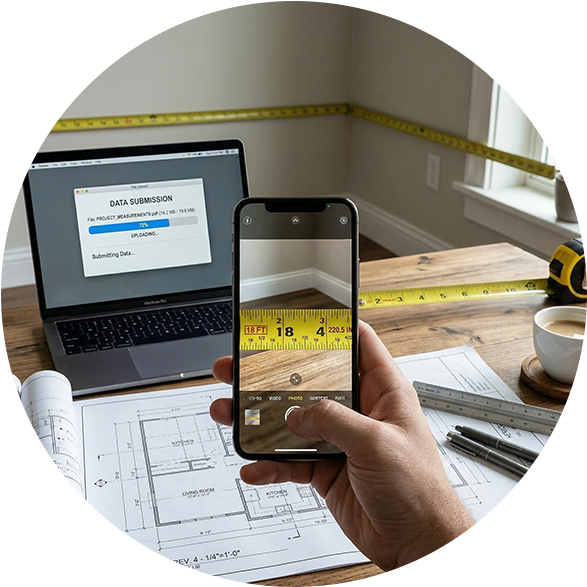
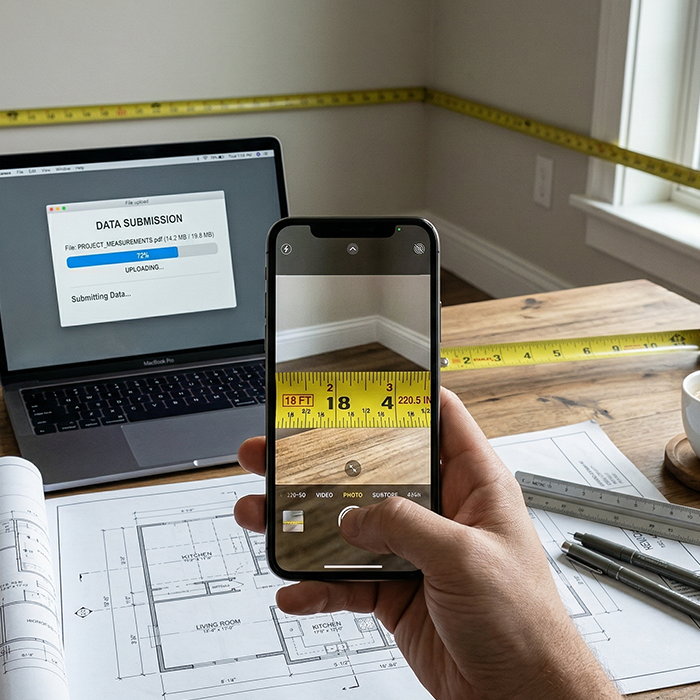
c

diff --git a/src/pages/faq/index.jsx b/src/pages/faq/index.jsx
@@ -4,6 +4,34 @@ import LightLayout from "../../layouts/light";
 import IntroWithVerticalTwo from "../../components/Intro-with-vertical-2";
 
 const FAQPage = () => {
+  const items = [
+    {
+      q: "How do I get a quote?",
+      a:
+        "Send photos, measurements, drawings, or schedule a video consultation. Our team reviews the information and prepares a quote.",
+    },
+    {
+      q: "How long does it take to receive a quote?",
+      a:
+        "Most projects receive a free 3D design and material quote within approximately 48 business hours.",
+    },
+    {
+      q: "Do you install the materials?",
+      a:
+        "Installation may be performed by local installers or contractors while we coordinate design, materials, and specifications.",
+    },
+    {
+      q: "Do you work nationwide?",
+      a:
+        "Yes. Clients across the United States can submit projects online and receive designs and quotes.",
+    },
+    {
+      q: "What projects do you support?",
+      a:
+        "Kitchen remodeling, bathroom remodeling, countertops, flooring, commercial millwork, restaurant interiors, office interiors, and finish carpentry.",
+    },
+  ];
+  const [active, setActive] = React.useState(0);
   React.useEffect(() => {
     document.querySelector("body").classList.add("homepage");
   }, []);
@@ -28,25 +56,27 @@ const FAQPage = () => {
         <div className="container">
           <div className="row">
             <div className="col-lg-10 offset-lg-1">
-              <div className="mb-40">
-                <h5 className="mb-20">How do I get a quote?</h5>
-                <p>Send photos, measurements, drawings, or schedule a video consultation. Our team reviews the information and prepares a quote.</p>
-              </div>
-              <div className="mb-40">
-                <h5 className="mb-20">How long does it take to receive a quote?</h5>
-                <p>Most projects receive a free 3D design and material quote within approximately 48 business hours.</p>
-              </div>
-              <div className="mb-40">
-                <h5 className="mb-20">Do you install the materials?</h5>
-                <p>Installation may be performed by local installers or contractors while we coordinate design, materials, and specifications.</p>
-              </div>
-              <div className="mb-40">
-                <h5 className="mb-20">Do you work nationwide?</h5>
-                <p>Yes. Clients across the United States can submit projects online and receive designs and quotes.</p>
-              </div>
-              <div className="mb-0">
-                <h5 className="mb-20">What projects do you support?</h5>
-                <p>Kitchen remodeling, bathroom remodeling, countertops, flooring, commercial millwork, restaurant interiors, office interiors, and finish carpentry.</p>
+              <div className="faq-accordion">
+                {items.map((it, idx) => (
+                  <div
+                    key={idx}
+                    className={`faq-item ${active === idx ? "open" : ""}`}
+                  >
+                    <button
+                      className="faq-q"
+                      aria-expanded={active === idx}
+                      onClick={() =>
+                        setActive(active === idx ? -1 : idx)
+                      }
+                    >
+                      <span>{it.q}</span>
+                      <i className={`fas ${active === idx ? "fa-minus" : "fa-plus"}`} />
+                    </button>
+                    <div className="faq-a">
+                      <p>{it.a}</p>
+                    </div>
+                  </div>
+                ))}
               </div>
             </div>
           </div>
@@ -57,4 +87,3 @@ const FAQPage = () => {
 };
 
 export default FAQPage;
-

diff --git a/src/styles/globals.css b/src/styles/globals.css
@@ -443,6 +443,44 @@ body.hideX .pace {
   padding-left: 18px;
 }
 
+/* FAQ accordion */
+.faq-accordion .faq-item {
+  border: 1px solid #eee;
+  border-radius: 10px;
+  margin-bottom: 15px;
+  overflow: hidden;
+  background: #fff;
+}
+.faq-accordion .faq-q {
+  width: 100%;
+  display: flex;
+  align-items: center;
+  justify-content: space-between;
+  padding: 18px 20px;
+  background: #fff;
+  color: #111;
+  font-weight: 600;
+  font-size: 16px;
+  border: none;
+  outline: none;
+  cursor: pointer;
+  transition: background .2s ease;
+}
+.faq-accordion .faq-q:hover {
+  background: #f8f4f3;
+}
+.faq-accordion .faq-a {
+  display: none;
+  padding: 0 20px 18px 20px;
+  color: #555;
+}
+.faq-accordion .faq-item.open .faq-a {
+  display: block;
+}
+.faq-accordion .faq-q i {
+  color: #B68C4A;
+}
+
 /* Improve mobile scroll behavior for hero slider */
 @media (max-width: 991px) {
   .cta__slider-wrapper {

diff --git a/src/pages/testimonials/index.jsx b/src/pages/testimonials/index.jsx
@@ -2,6 +2,7 @@
 import React from "react";
 import LightLayout from "../../layouts/light";
 import IntroWithVertical from "../../components/Intro-with-vertical-2";
+import Testimonial1 from "../../components/Testimonials1";
 
 const TestimonialsPage = () => {
   React.useEffect(() => {
@@ -24,7 +25,7 @@ const TestimonialsPage = () => {
         ]}
       />
 
-      <section className="section-padding bg-white">
+      {/* <section className="section-padding bg-white">
         <div className="container">
           <div className="row">
             <div className="col-lg-10 offset-lg-1">
@@ -40,7 +41,8 @@ const TestimonialsPage = () => {
             </div>
           </div>
         </div>
-      </section>
+      </section> */}
+      <Testimonial1/>
     </LightLayout>
   );
 };

diff --git a/src/components/Testimonials1/index.jsx b/src/components/Testimonials1/index.jsx
@@ -103,9 +103,7 @@ class Testimonials1 extends React.Component {
                         <p className="">&quot;{item.content}&quot;</p>
                       </div>
                       <div className="info">
-                        <div className="author">
-                          <img src={item.image} alt="" />
-                        </div>
+                       
                         <h6>
                           {item.username} <span>{item.usertitle}</span>
                         </h6>

diff --git a/src/pages/materials/index.jsx b/src/pages/materials/index.jsx
@@ -21,7 +21,7 @@ const MaterialsPage = () => {
               first:
                 "Selecting the right materials is one of the most important steps in a successful remodeling or interior finish project.",
             },
-            image: "/assets/img/hero/2.png",
+            image: "/assets/img/hero/1.png",
           },
         ]}
       />
